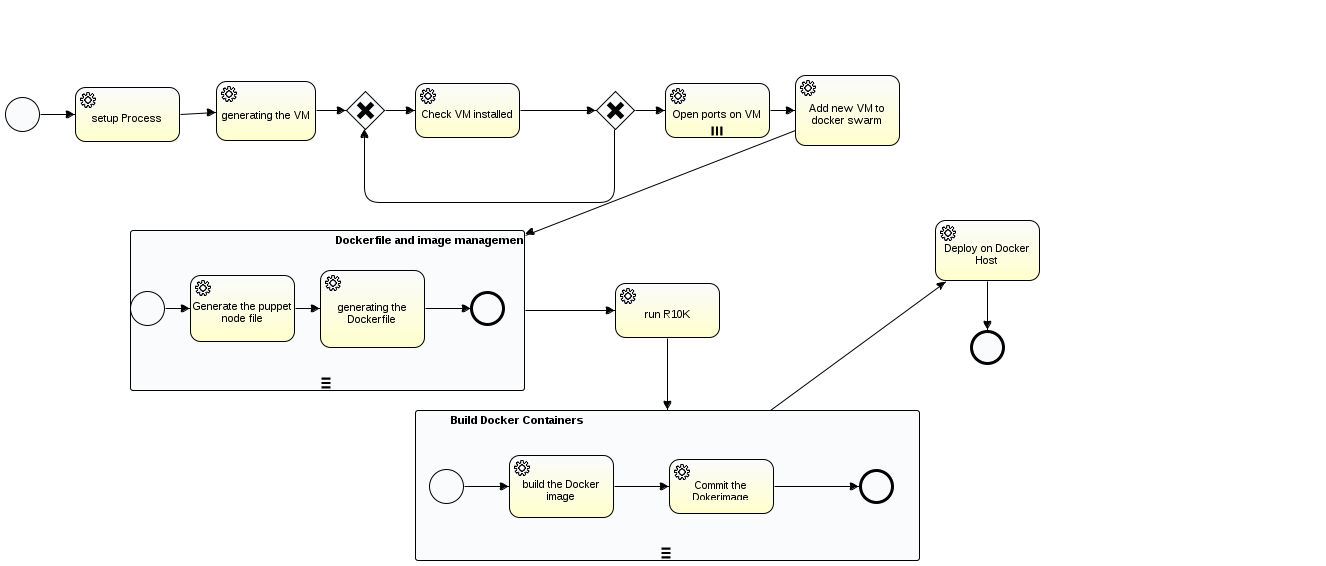
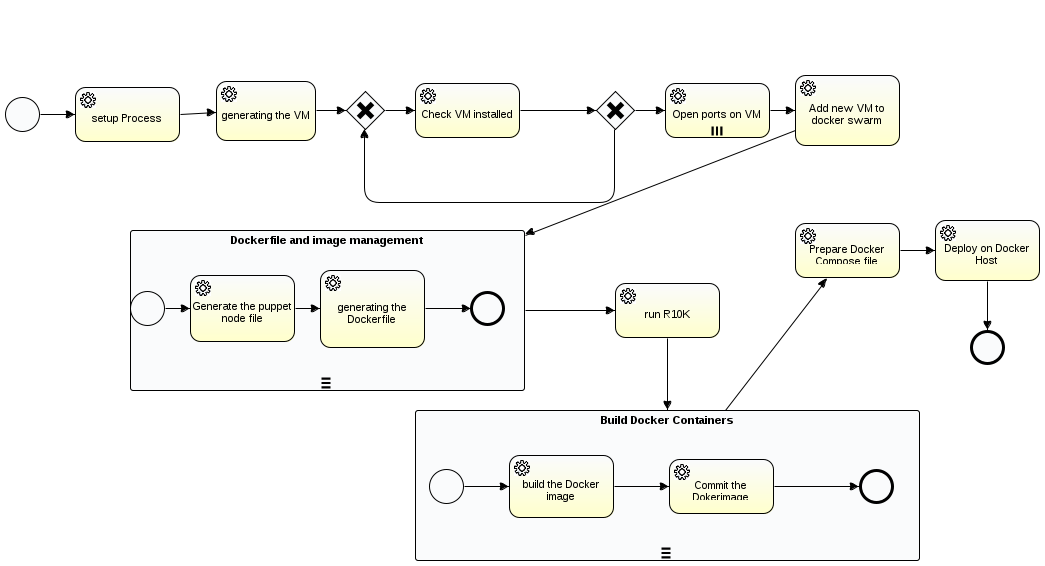
Fixed lowercase and new process image

diff --git a/cloudopting-tosca/src/main/java/eu/cloudopting/activiti/CloudoptingProcessDockerComposeFile.java b/cloudopting-tosca/src/main/java/eu/cloudopting/activiti/CloudoptingProcessDockerComposeFile.java
@@ -37,7 +37,7 @@ public class CloudoptingProcessDockerComposeFile implements JavaDelegate {
 		for (String node : dockerNodesList) {
 			HashMap<String, String> containerData = new HashMap<String, String>();
 			containerData.put("container", node);
-			containerData.put("image", "cloudopting/"+customer+"_"+node);
+			containerData.put("image", "cloudopting/"+customer+"_"+node.toLowerCase());
 //			modData.add(toscaFileManager.getPuppetModulesProperties(mod));
 			System.out.println(node);
 			modData.add(containerData);
